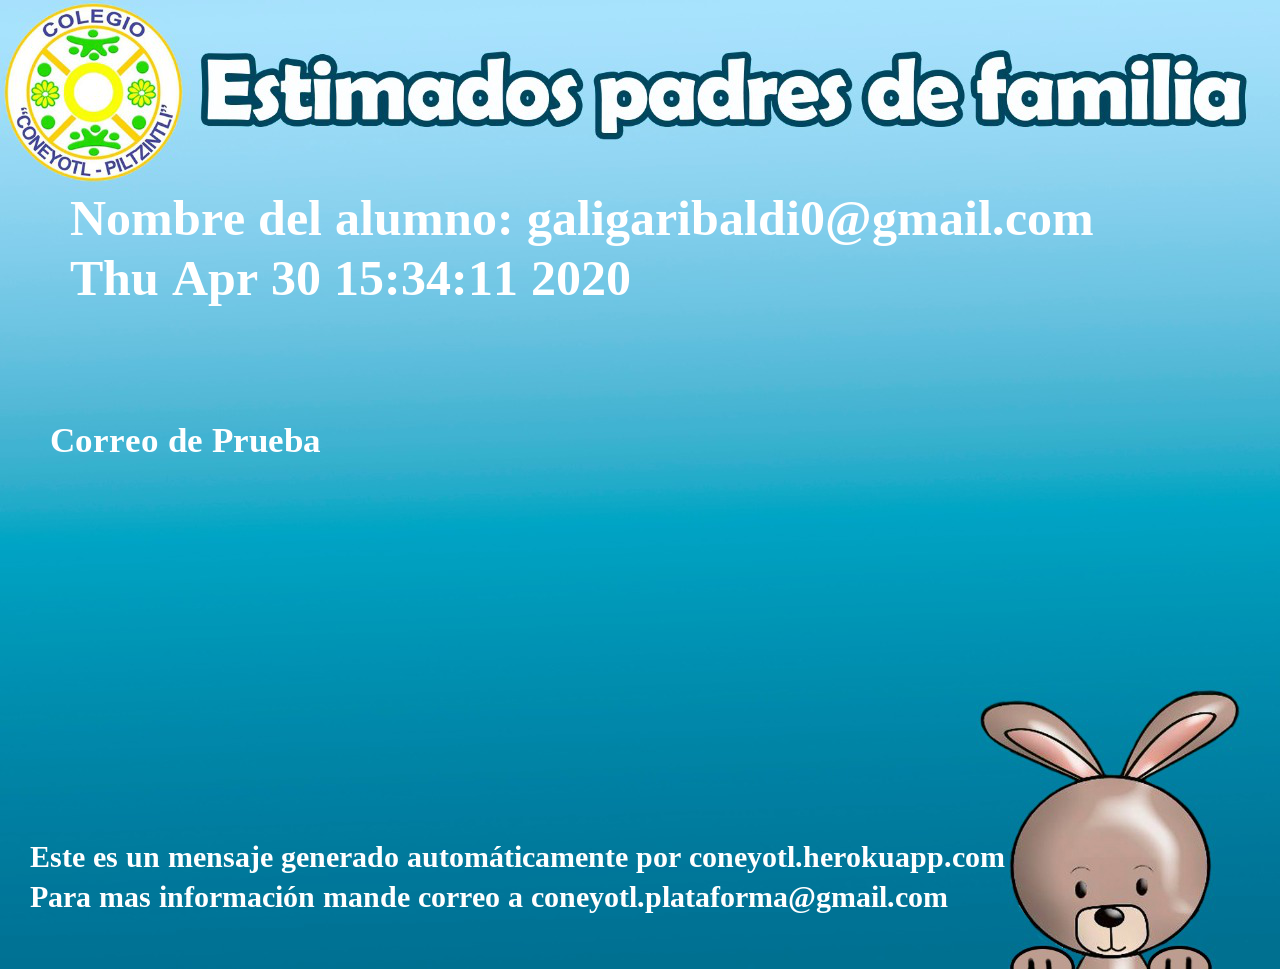
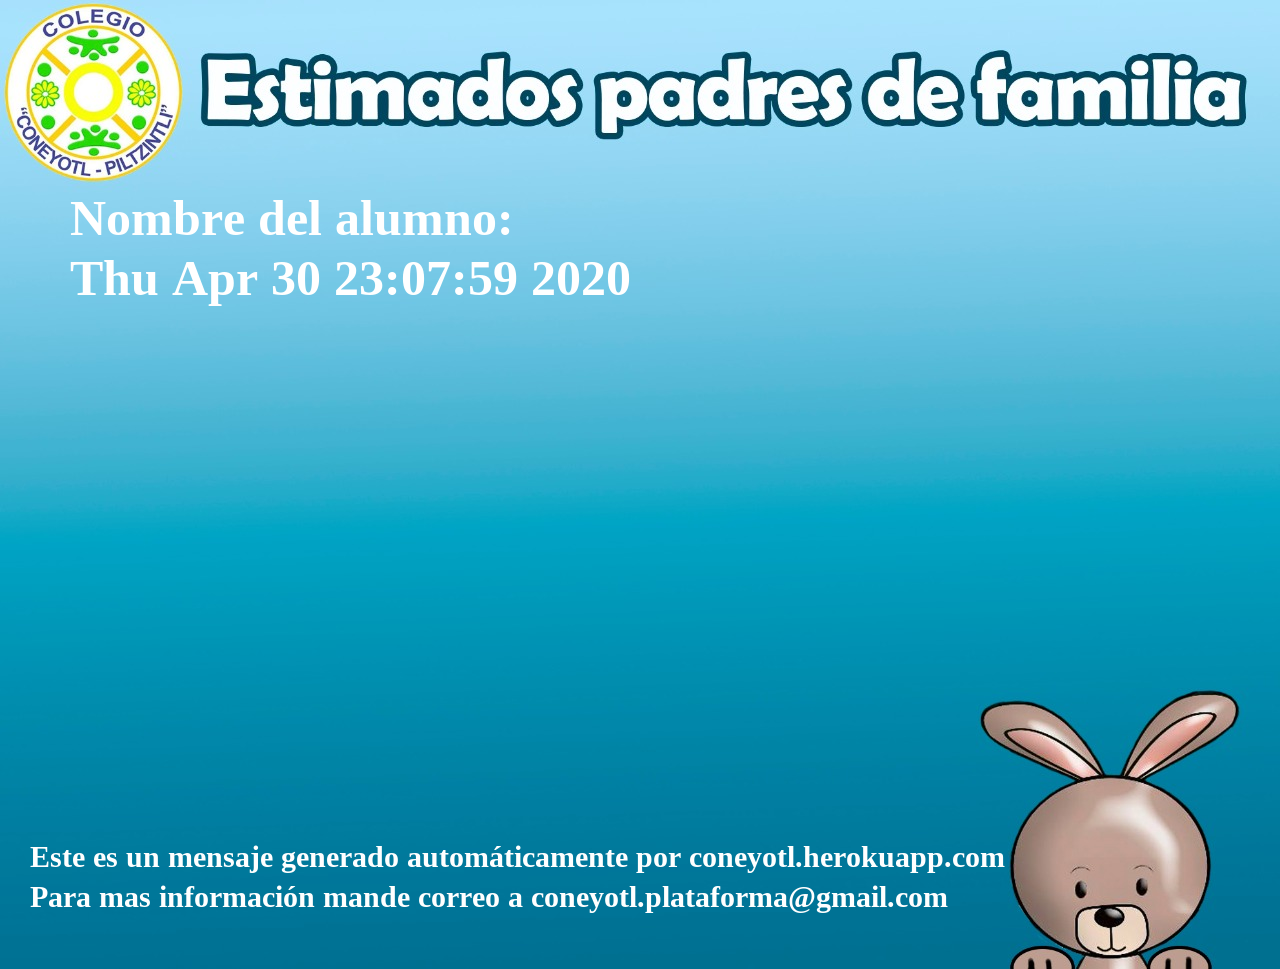
Cambios

Changed region(s): [[0.4062, 0.1858, 0.875, 0.2477], [0.25, 0.2477, 0.4062, 0.3096], [0.0312, 0.4334, 0.25, 0.4644]]

diff --git a/generador_img.py b/generador_img.py
@@ -5,9 +5,9 @@ def generar_imagen(nombre, apellido_p, apellido_m,mensaje):
     img=Image.open("plantilla.jpeg")
     draw = ImageDraw.Draw(img)
     ###Definir la uente
-    font = ImageFont.truetype('LiberationSerif-Bold.ttf', 50)
-    font2= ImageFont.truetype('LiberationSerif-Bold.ttf', 35)
-    font3= ImageFont.truetype('LiberationSerif-Bold.ttf', 30)
+    font = ImageFont.truetype('/env/lib/python3.7/site-packages/PIL/LiberationSerif-Bold.ttf', 50) #ImageFont.load_default()
+    font2= ImageFont.truetype('/env/lib/python3.7/site-packages/PIL/LiberationSerif-Bold.ttf', 35) #ImageFont.load_default()
+    font3= ImageFont.truetype('/env/lib/python3.7/site-packages/PIL/LiberationSerif-Bold.ttf', 30) #ImageFont.load_default()
     ###Definir la posición en la cual se escribe
[1 lines of base64/hex data omitted]
     pie = "Este es un mensaje generado automáticamente por coneyotl.herokuapp.com"
@@ -38,3 +38,4 @@ def generar_imagen(nombre, apellido_p, apellido_m,mensaje):
     draw.text((30,880), pie2, fill="white", font=font3)
     #img.show()
     img.save('nuevo.png')
+generar_imagen('', '', '','')
